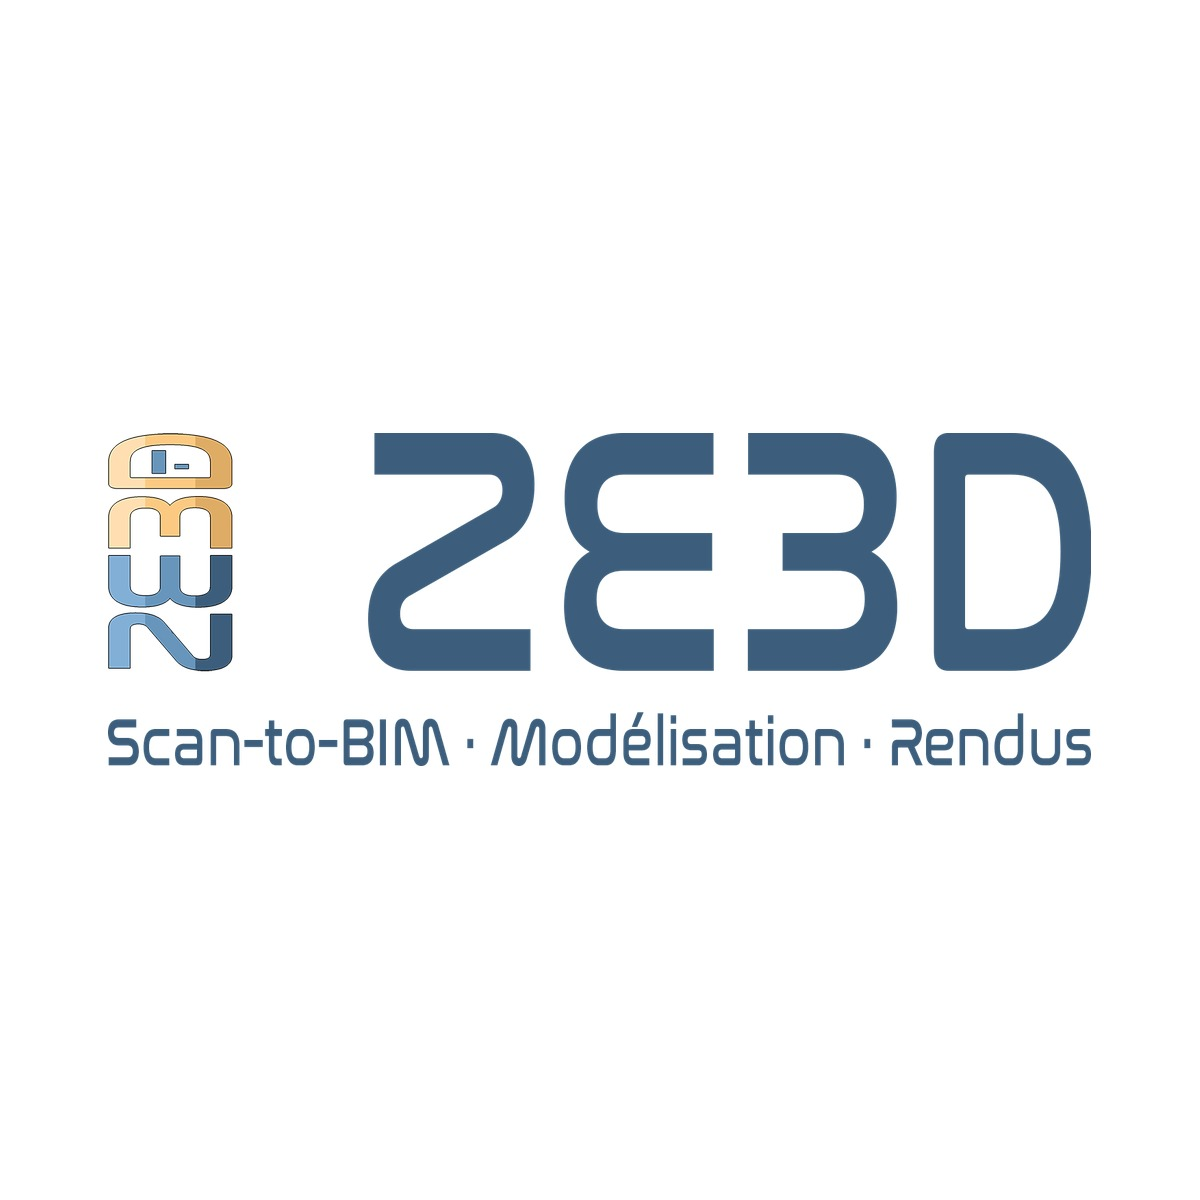
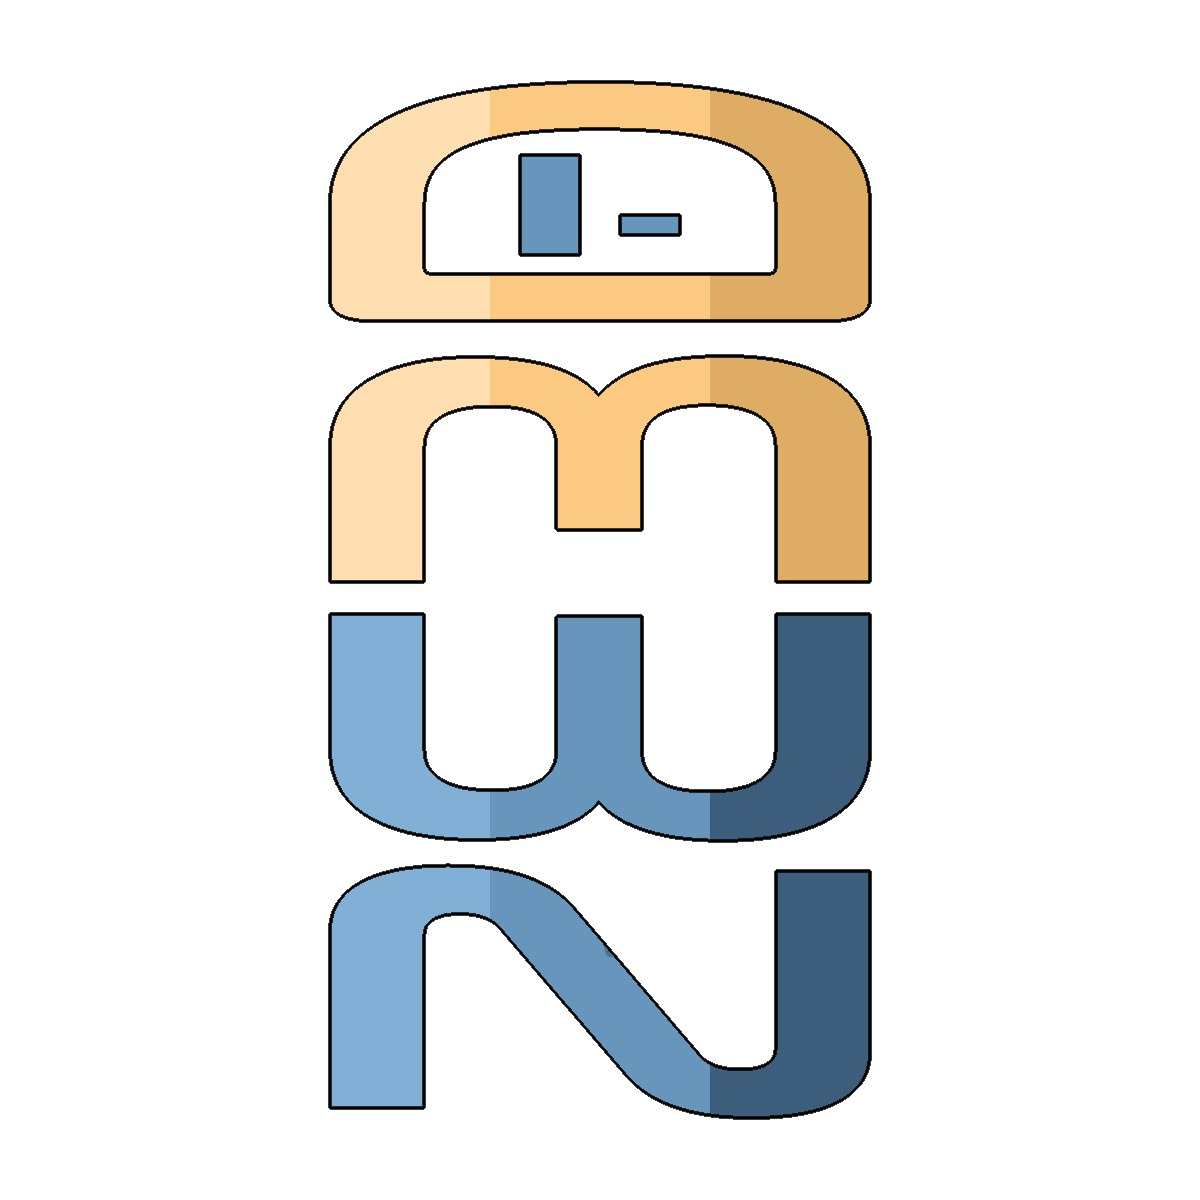
Vignette og (accueil/à-propos/contact) = Logotype taille réelle sur blanc 1200x1200
- public/og-ze3d-card.jpg régénéré (logotype 544x1040 centré sur blanc)
- copie réseau pro : 02 - LOGOS - VISUELS/Logo ZE3D - Card 1200x1200.png
- rebuild-brand-assets.py mis à jour (référence) + MEMOIRE §20

Changed region(s): [[0.0925, 0.0617, 0.925, 0.9558]]

diff --git a/scripts/rebuild-brand-assets.py b/scripts/rebuild-brand-assets.py
@@ -87,14 +87,20 @@ fav.resize((16, 16), Image.LANCZOS).save(PUB / "favicon-16.png")
 fav.save(PUB / "favicon.ico", sizes=[(16, 16), (32, 32), (48, 48)])
 print("✓ favicons            icon-512 / apple-touch-icon / favicon-32 / favicon-16 / favicon.ico")
 
-# ── 5. CARTE OG sociale : og-ze3d-card.jpg (LNP centré sur blanc) ──
+# ── 5. CARTE OG sociale : Logotype à TAILLE RÉELLE centré sur blanc 1200x1200 ──
+#     Sert de vignette (og:image) pour Accueil / À-propos / Contact.
 C = 1200
-lnp = crop_content(load("Logo ZE3D - LNP.png"))
-lnp = fit(lnp, max_w=int(C * 0.82), max_h=int(C * 0.72))
-card = Image.new("RGB", (C, C), (255, 255, 255))
-card.paste(lnp, ((C - lnp.width) // 2, (C - lnp.height) // 2), lnp)
-card.save(PUB / "og-ze3d-card.jpg", quality=92)
-print(f"✓ og-ze3d-card.jpg     {C}x{C}  (LNP {lnp.width}x{lnp.height} centré sur blanc)")
+logo = load("Logo ZE3D - Logotype.png")          # 544x1040, taille réelle (PAS de resize)
+card = Image.new("RGBA", (C, C), (255, 255, 255, 255))
+card.alpha_composite(logo, ((C - logo.width) // 2, (C - logo.height) // 2))
+card.convert("RGB").save(PUB / "og-ze3d-card.jpg", quality=92)
+print(f"✓ og-ze3d-card.jpg     {C}x{C}  (Logotype {logo.size} taille réelle sur blanc)")
+# Copie réseau pro réutilisable (si le dossier existe)
+SYNO_LOGOS = Path("/Users/emmanuelzerdoun/Library/CloudStorage/SynologyDrive-ZE3D"
+                  "/00 - SOCLE/03 - CHARTE - ID VISUEL/02 - LOGOS - VISUELS")
+if SYNO_LOGOS.is_dir():
+    card.save(SYNO_LOGOS / "Logo ZE3D - Card 1200x1200.png")
+    print(f"✓ Logo ZE3D - Card 1200x1200.png -> 02 - LOGOS - VISUELS")
 
 print("=" * 60)
 print("Terminé.")

diff --git a/MEMOIRE_PROJET.md b/MEMOIRE_PROJET.md
@@ -781,7 +781,7 @@ reformulation legale, PAS GA4 standard (qui imposerait un bandeau de consentemen
 **`scripts/rebuild-brand-assets.py`** (Python/PIL) regenere TOUT depuis Charte graphique, a dimensions calees (rendu identique) :
 - `public/logo-ln.png` (header, depuis LN) · `public/logo-fond-fonce.png` (footer, depuis Logotype FF) · `public/chargement-logo.png` (splash : logotype centre 1500x1500 + **halo blanc doux** flou=100 / opacite plafond=128 ≈ 50%).
 - Favicons (favicon.ico 16/32/48, favicon-16/32.png, apple-touch-icon 180, icon-512) depuis Favicon.png.
-- `public/og-ze3d-card.jpg` (1200x1200, LNP centre sur blanc).
+- `public/og-ze3d-card.jpg` (1200x1200) = vignette og:image Accueil/À-propos/Contact. **MAJ 06/06** : désormais le **Logotype à taille réelle (544x1040) centré sur blanc** (au lieu du LNP). Copie réseau pro : `00 - SOCLE/03 - CHARTE - ID VISUEL/02 - LOGOS - VISUELS/Logo ZE3D - Card 1200x1200.png`. Régénéré par `rebuild-brand-assets.py`.
 - **Relancer ce script apres toute modif des sources Charte graphique.**
 
 ### Modifs site (sur develop, NON encore deployees au 05/06)
